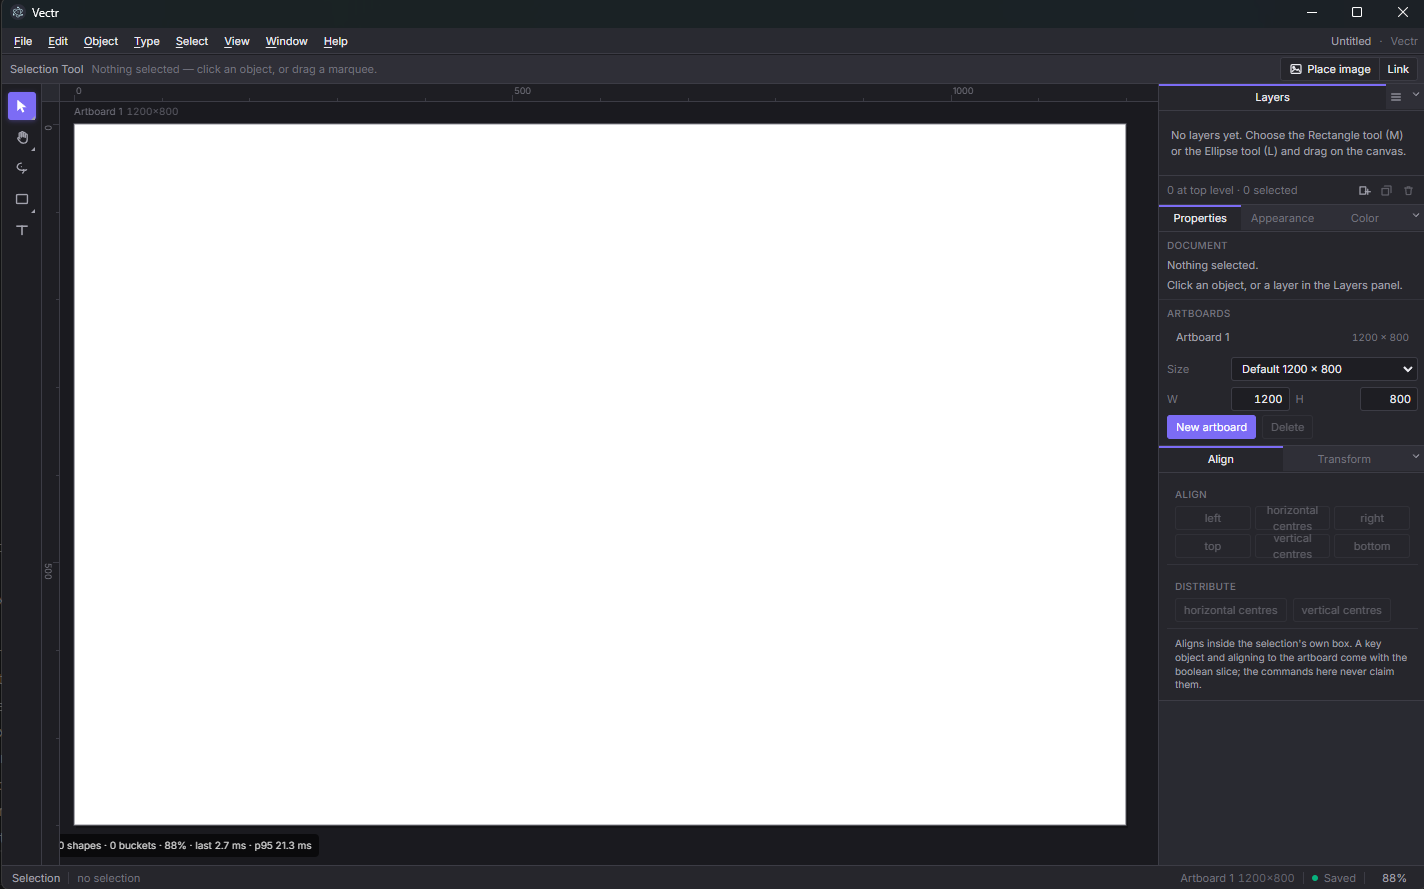
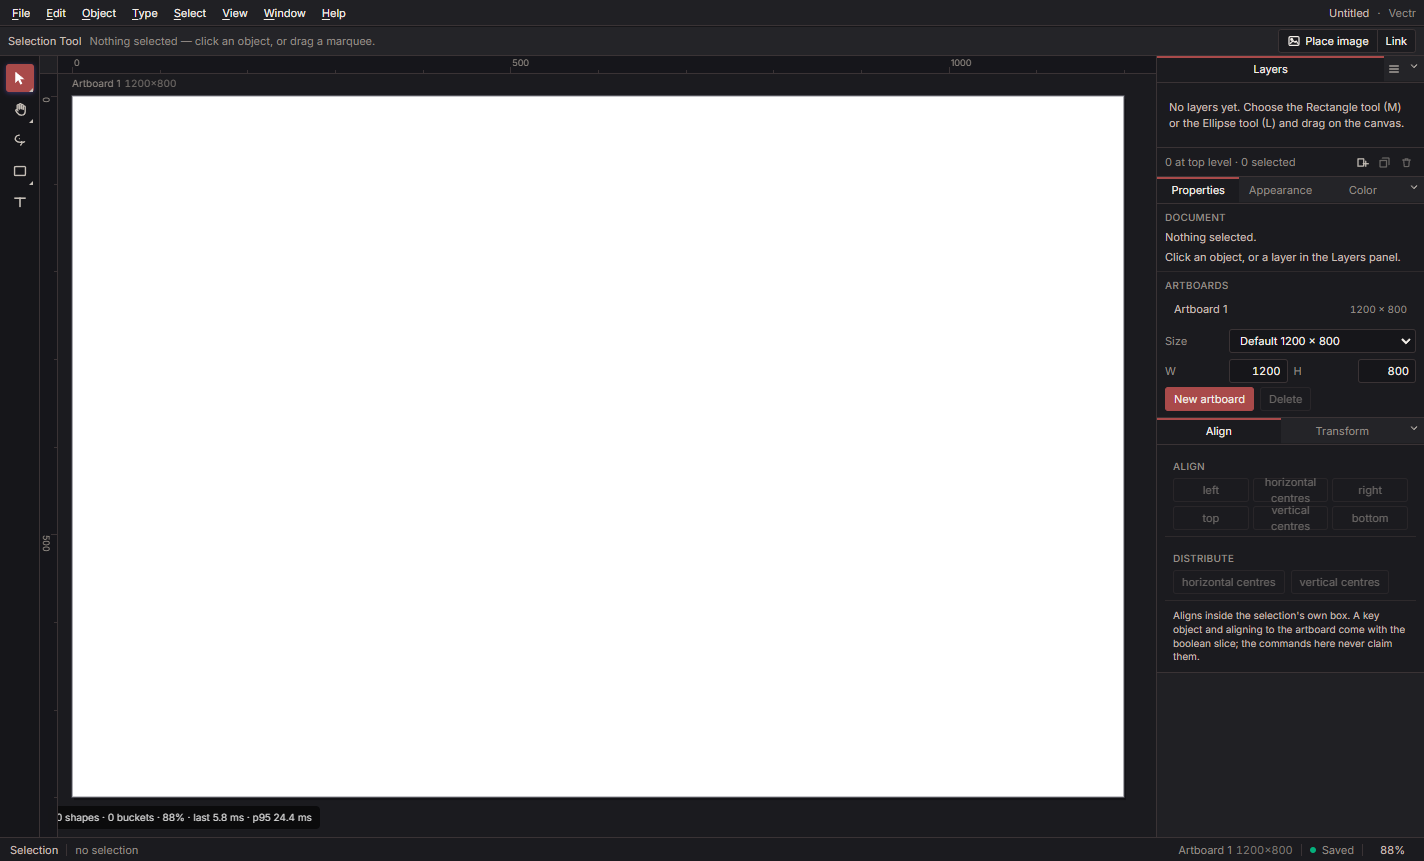
feat(ui): the rose brand palette, and repair the site
Applies the owner's palette as Tailwind tokens: charcoal #1B1B1F chrome, #242428 panels,
rose-vale #A94A4A for buttons and selection, rose-light #E07C7B for links and focus,
rose-deep #8B3A3A for hover and pressed, off-white #F3EEE8 text. Adds accent-deep and
accent-light tokens, moves hover/pressed states to rose-deep, clears the canvas pasteboard
to the same charcoal, and adds src/app/ui/brand.ts for the canvas overlays that cannot read
CSS variables (the shape preview's violet stroke is gone).

Repairs site/index.html: the conflict markers from the owner's stashed change are resolved by
keeping their side in full - new layout, brand SVG logo, hero, sections, code sample, fonts -
and dropping the stale upstream head. Page structure is balanced again.

Adds a development harness flag, --screenshot=path, which renders the editor in a fresh profile
and captures the window; the site and README screenshots were stale and showed the old purple,
and are regenerated with it. Also fixes vectr.png (root and site), which were JPEG bytes with a
.png extension, now true PNGs.

Adds the brand palette rule to AGENTS.md. 272/272 tests, layer check, build clean, packaged run
143 steps unchanged.

diff --git a/site/index.html b/site/index.html
@@ -1,34 +1,5 @@
 <!DOCTYPE html>
 <html lang="en">
-<<<<<<< Updated upstream
-  <head>
-    <meta charset="utf-8" />
-    <meta name="viewport" content="width=device-width, initial-scale=1" />
-    <title>Vectr - Draw like Illustrator. Ship React.</title>
-    <meta name="description" content="Vectr is a desktop-first vector design tool that exports its layer tree as readable React components styled with Tailwind." />
-    <meta property="og:title" content="Vectr" />
-    <meta property="og:description" content="A desktop-first vector design tool that exports React components." />
-    <meta property="og:image" content="vectr.png" />
-    <link rel="icon" href="vectr.png" />
-    <link rel="stylesheet" href="style.css" />
-  </head>
-  <body>
-    <header class="hero">
-      <img class="logo" src="vectr.png" alt="Vectr" width="96" height="96" />
-      <h1>Vectr</h1>
-      <p class="tagline">
-        A desktop-first vector design tool with Illustrator's conventions and its own compiler: every
-        layer becomes a readable React component styled with Tailwind.
-      </p>
-      <nav class="links">
-        <a class="primary" href="https://github.com/lleoparden/vectr">Source</a>
-        <a href="https://github.com/lleoparden/vectr/blob/main/docs/MASTER_PLAN.md">Roadmap</a>
-        <a href="https://github.com/lleoparden/vectr/blob/main/docs/AUDIT.md">What works</a>
-        <a href="https://github.com/lleoparden/vectr/blob/main/docs/PROGRESS.md">Progress</a>
-        <a href="https://github.com/lleoparden/vectr/releases/tag/alpha">Alpha release</a>
-      </nav>
-    </header>
-=======
 <head>
 <meta charset="utf-8">
 <meta name="viewport" content="width=device-width, initial-scale=1">
@@ -40,7 +11,6 @@
 <link rel="stylesheet" href="style.css">
 </head>
 <body>
->>>>>>> Stashed changes
 
 <header class="top">
   <a class="brand" href="#" aria-label="Vectr home">

diff --git a/src/styles.css b/src/styles.css
@@ -14,26 +14,28 @@
  */
 @theme {
   /* Chrome: the surfaces the interface itself sits on. */
-  --color-chrome: #26262c;
-  --color-chrome-raised: #2f2f37;
-  --color-chrome-sunken: #1e1e23;
-  --color-chrome-active: #3a3a44;
-  --color-chrome-hover: #34343e;
-  --color-chrome-panel: #292a31;
-  --color-hairline: #3c3c45;
+  --color-chrome: #1b1b1f;
+  --color-chrome-raised: #242428;
+  --color-chrome-sunken: #16161a;
+  --color-chrome-active: #2f2b2b;
+  --color-chrome-hover: #282426;
+  --color-chrome-panel: #202024;
+  --color-hairline: #3a3335;
 
   /* Ink: text and icon weights. */
-  --color-ink: #ececf1;
-  --color-ink-muted: #a2a2ad;
-  --color-ink-faint: #74747f;
+  --color-ink: #f3eee8;
+  --color-ink-muted: #c6bfb7;
+  --color-ink-faint: #948d86;
 
   /* Accent: one violet, used for selection, focus, and active tools. */
-  --color-accent: #7c6cf5;
-  --color-accent-soft: #332c5e;
-  --color-accent-ink: #cfc9ff;
+  --color-accent: #a94a4a;
+  --color-accent-soft: #3a2a2a;
+  --color-accent-ink: #f3eee8;
+  --color-accent-deep: #8b3a3a;
+  --color-accent-light: #e07c7b;
 
   --color-danger: #e2665c;
-  --color-pasteboard: #1a1a1f;
+  --color-pasteboard: #1b1b1f;
   --color-artboard: #ffffff;
 
   /* Type scale: three UI sizes, no ad-hoc pixel values. */

diff --git a/src/app/ui/components/Button.tsx b/src/app/ui/components/Button.tsx
@@ -22,7 +22,7 @@ const SIZES: Record<ButtonSize, string> = {
 function variantClass(variant: ButtonVariant, tone: 'quiet' | 'accent', active: boolean): string {
   switch (variant) {
     case 'primary':
-      return 'border border-accent bg-accent text-accent-ink hover:bg-accent-soft disabled:hover:brightness-100'
+      return 'border border-accent bg-accent text-accent-ink hover:bg-accent-deep active:bg-accent-deep disabled:hover:bg-accent'
     case 'danger':
       return 'border border-transparent text-ink-muted hover:bg-chrome-hover hover:text-danger'
     case 'icon':
@@ -34,7 +34,7 @@ function variantClass(variant: ButtonVariant, tone: 'quiet' | 'accent', active: 
     case 'panel':
     default:
       return tone === 'accent'
-        ? 'border border-accent bg-accent text-white hover:brightness-110 disabled:hover:brightness-100'
+        ? 'border border-accent bg-accent text-accent-ink hover:bg-accent-deep active:bg-accent-deep disabled:hover:bg-accent'
         : `border border-hairline text-ink-muted hover:bg-chrome-hover hover:text-ink${active ? ' bg-chrome-active text-ink' : ''}`
   }
 }

diff --git a/src/render/EditorRenderer.ts b/src/render/EditorRenderer.ts
@@ -371,7 +371,7 @@ export class EditorRenderer {
     const canvas = this.surface.getCanvas()
     // The pasteboard around the page is grey, so the page reads as a bounded sheet rather than an
     // infinite white board; the pages themselves are painted white inside the viewport transform.
-    canvas.clear(this.kit.Color4f(0.102, 0.102, 0.122, 1))
+    canvas.clear(this.kit.Color4f(0.106, 0.106, 0.122, 1))
     canvas.save()
     canvas.translate(viewport.panX, viewport.panY)
     canvas.scale(viewport.zoom, viewport.zoom)
@@ -541,7 +541,7 @@ export class EditorRenderer {
       if (assetId !== null) this.missingAssets.add(assetId)
       recording.drawRect(
         this.kit.XYWHRect(0, 0, shape.width, shape.height),
-        this.paintFor('fill', '#d8d8de', 0, shape.opacity),
+        this.paintFor('fill', '#d9d3cc', 0, shape.opacity),
       )
       return
     }

diff --git a/src/app/ui/brand.ts b/src/app/ui/brand.ts
@@ -1,0 +1,22 @@
+/**
+ * The brand palette, as values (issue: rose palette).
+ *
+ * DOM chrome uses the Tailwind tokens in «src/styles.css». Canvas overlays cannot read CSS variables, so the
+ * six roles also exist here as numbers for the few places that draw with Skia or a stroke style. The two must
+ * change together; «tests/uiStandards.test.ts» checks that the site and the stylesheet agree with this file.
+ */
+
+export const BRAND = {
+  /** Main background. */
+  charcoal: '#1b1b1f',
+  /** Panels and alternate sections. */
+  charcoalRaised: '#242428',
+  /** Brand: buttons, selection, fills. */
+  roseVale: '#a94a4a',
+  /** Links, small text, focus rings. */
+  roseLight: '#e07c7b',
+  /** Hover and pressed states. */
+  roseDeep: '#8b3a3a',
+  /** Text and the logo letter. */
+  offWhite: '#f3eee8',
+} as const

diff --git a/src/app/panels/ColorPanel.tsx b/src/app/panels/ColorPanel.tsx
@@ -7,6 +7,7 @@
  */
 
 import { findNode, paintOrder } from '../../doc/document.ts'
+import { BRAND } from '../ui/brand.ts'
 import { isLeaf, isText, supportsFill, type Document } from '../../doc/types.ts'
 import { useEditorState } from '../../state/useEditorState.ts'
 import { addCmykSwatch, addSwatchFromSelection, applySwatch, removeSwatch, setSelectionFill } from '../actions.ts'
@@ -89,7 +90,7 @@ export function ColorPanel() {
       <Section title={selected !== undefined && selected !== null && isText(selected) ? 'Text colour' : 'Selection colour'}>
         <ColorField
           label="Colour"
-          value={active ?? '#7c6cf5'}
+          value={active ?? BRAND.roseVale}
           suggestions={used}
           onChange={(color) => setSelectionFill(color)}
         />

diff --git a/src/app/canvas/ShapePreview.tsx b/src/app/canvas/ShapePreview.tsx
@@ -7,6 +7,7 @@
  */
 
 import type { ShapeParams } from '../../doc/document.ts'
+import { BRAND } from '../ui/brand.ts'
 import { clampCornerRadius, lineEndpoints, outlinePoints } from '../../geom/shapeGeometry.ts'
 import type { Point } from '../../doc/hitTest.ts'
 import type { ShapeKind } from '../../doc/document.ts'
@@ -14,7 +15,7 @@ import { boxFor, constrainEnd, lineFrom as lineFromCorner } from './shapeDrag.ts
 
 export type ShapePreviewState = { kind: ShapeKind; start: Point; current: Point; shift: boolean }
 
-const STROKE = '#a78bfa'
+const STROKE = BRAND.roseLight
 const FILL = 'rgba(167, 139, 250, 0.14)'
 
 export function ShapePreview({

diff --git a/src/app/ui/components/Menu.tsx b/src/app/ui/components/Menu.tsx
@@ -81,7 +81,7 @@ export function MenuItem({
       onKeyDown={onKeyDown}
       onPointerEnter={onPointerEnter}
       data-menu-item
-      className={`${ITEM} ${disabled ? 'cursor-default text-ink-faint' : 'text-ink hover:bg-accent-soft'} ${className}`}
+      className={`${ITEM} ${disabled ? 'cursor-default text-ink-faint' : 'text-ink hover:bg-accent-soft active:bg-accent-deep'} ${className}`}
     >
       <span>{label}</span>
       {trailing ?? (chord !== null && chord !== undefined ? <span className="text-ui-xs text-ink-faint">{chord}</span> : null)}

diff --git a/src/app/ui/components/SegmentButton.tsx b/src/app/ui/components/SegmentButton.tsx
@@ -35,7 +35,7 @@ export function SegmentButton({
       data-ui-segment
       className={`h-6 rounded-ui border px-2 text-ui-xs transition-colors disabled:opacity-40 ${
         active
-          ? 'border-accent bg-accent text-accent-ink'
+          ? 'border-accent bg-accent text-accent-ink hover:bg-accent-deep'
           : 'border-hairline bg-chrome text-ink-muted hover:bg-chrome-active'
       } ${className}`}
     >

diff --git a/docs/PROGRESS.md b/docs/PROGRESS.md
@@ -1,6 +1,26 @@
 # Progress
 
 
+## The rose palette, a fixed site, and a screenshot harness (2026-10-18)
+
+- **The brand palette is applied and documented.** Charcoal `#1B1B1F` for the chrome, `#242428` for panels, rose-vale
+  `#A94A4A` for buttons and selection, rose-light `#E07C7B` for links and focus, rose-deep `#8B3A3A` for hover and
+  pressed states, off-white `#F3EEE8` for text. The six roles live in `src/styles.css` as `@theme` tokens, with
+  `--color-accent-deep` and `--color-accent-light` added, and the canvas pasteboard now clears to the same charcoal.
+  The rule is in `AGENTS.md`: a component uses token classes, never a hex.
+- **The website is repaired.** `site/index.html` carried conflict markers from a stashed change; the owner's side is
+  kept - their new layout, the brand SVG logo, the hero, the feature sections, the code sample, and the fonts - and
+  the stale upstream head is dropped. The page structure is balanced again (one html, head, and body, each closed).
+- **The site screenshot is current.** A development harness flag, `--screenshot=path`, renders the editor in a fresh
+  profile and captures the window, so the image can be regenerated whenever the interface changes. The site image
+  was stale and showed the old purple accent; it now shows the rose palette.
+- **Two files had the wrong format.** `vectr.png` (root and site) were JPEG bytes with a `.png` extension, which
+  some viewers refuse; both are true PNGs now.
+- **A brand-value module** (`src/app/ui/brand.ts`) carries the six colours for the canvas overlays that cannot read
+  CSS variables; the shape preview's stroke uses the rose-light token now instead of a stray violet.
+
+
+
 ## A contribution guide (2026-10-18)
 
 `CONTRIBUTING.md` now exists at the root, where GitHub surfaces it when someone opens an issue or a pull request.

diff --git a/AGENTS.md b/AGENTS.md
@@ -73,6 +73,29 @@ L7 application shells and tooling.
   explain`, or `graphify path` before broad source exploration. Update the
   graph after production-code changes.
 
+## Brand palette
+
+Vectr's colours are a brand, not a taste per screen. These six roles are the palette, and `src/styles.css` holds
+them as Tailwind `@theme` tokens - the only place a colour is written:
+
+| Role | Token | Hex |
+| --- | --- | --- |
+| Charcoal, main background | `--color-chrome`, `--color-pasteboard` | `#1B1B1F` |
+| Charcoal raised, panels and alternate sections | `--color-chrome-raised`, `--color-chrome-panel` | `#242428` |
+| Rose-vale, brand: buttons, selection, fills | `--color-accent` | `#A94A4A` |
+| Rose light, links, small text, focus rings | `--color-accent-light` | `#E07C7B` |
+| Rose deep, hover and pressed states | `--color-accent-deep` | `#8B3A3A` |
+| Off-white, text and the logo letter | `--color-ink` | `#F3EEE8` |
+
+- A component uses the token classes (`bg-accent`, `text-ink-muted`, `border-hairline`); it never writes a hex.
+  A hex in a component is a review finding.
+- Derived neutrals (`chrome-sunken`, `chrome-active`, `chrome-hover`, `hairline`, `ink-muted`, `ink-faint`) are
+  shading of the charcoal and off-white, kept warm-neutral so they sit beside the rose without clashing.
+- Document content colours are not brand colours: the default fill, the swatch palette, and user artwork may be
+  any colour. The palette governs chrome, selection, focus, and the site.
+- The site in `site/` uses the same six values; a palette change updates `src/styles.css`, `site/style.css`, and
+  `docs/` together.
+
 ## UI components
 
 The interface is repetitive by nature, so repetition in the code is a defect. One component per concept, in

diff --git a/docs/DECISIONS.md b/docs/DECISIONS.md
@@ -2315,3 +2315,20 @@ VectorCraft as the base. Reading that repository changed the answer, and the own
   label, and this label is defined as pointing at the head of `main`. No branch is ever force-pushed.
 - **Phase close now has a release gate**: progress, release notes, and the site must agree before a phase is
   called done.
+
+## 2026-10-18 - The rose palette is the brand, and a screenshot is generated, not posed
+
+- **Six roles, one source per medium.** The DOM reads `src/styles.css` tokens; the few canvas overlays that cannot
+  (shape preview, pasteboard clear) read `src/app/ui/brand.ts`, which mirrors the same six values. Two sources that
+  must agree is a real risk, so the rule says they change together and the UI standards test is the place to add
+  the check if it drifts.
+- **Rose-deep is the interaction state.** Hover and pressed states use `#8B3A3A` rather than a brightness filter, so
+  the palette's own values describe every state and a future theme change stays in one file.
+- **Document colours are not brand colours.** The default fill, the swatch palette, and user artwork keep their own
+  values; the palette governs chrome, selection, focus, and the site. A "brand" palette that recoloured artwork
+  would be a bug.
+- **The screenshot is a harness, not a hand capture.** `--screenshot=path` renders the real editor in a fresh
+  profile and captures the window, so the release and site images can be regenerated with one command instead of
+  drifting whenever the interface changes.
+- **A stashed change is the owner's intent.** The site conflict was resolved by keeping the `Stashed changes` side
+  in full and dropping the upstream head; anything the owner writes in that file wins over an older copy.
